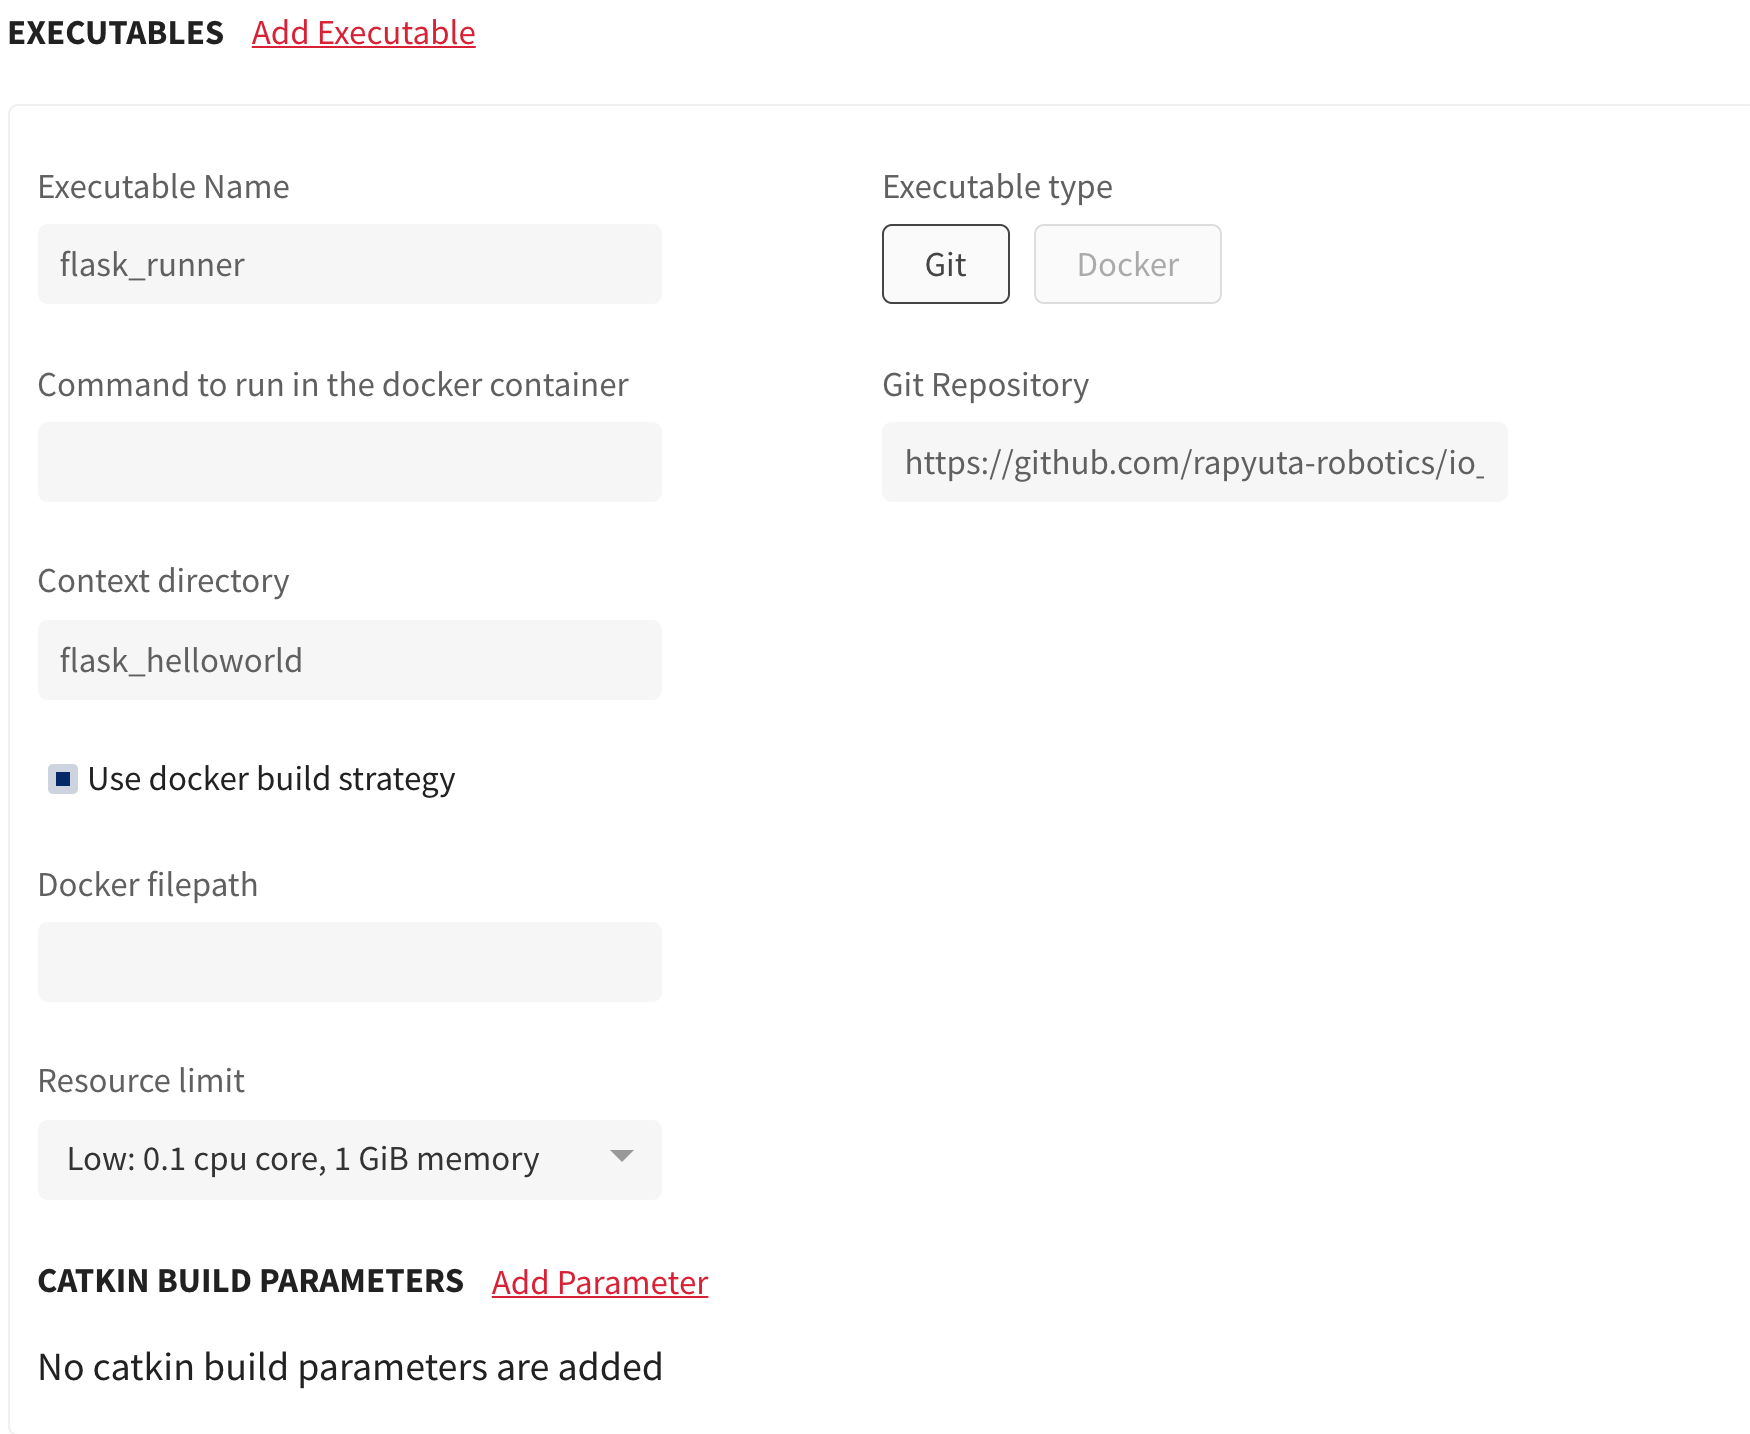
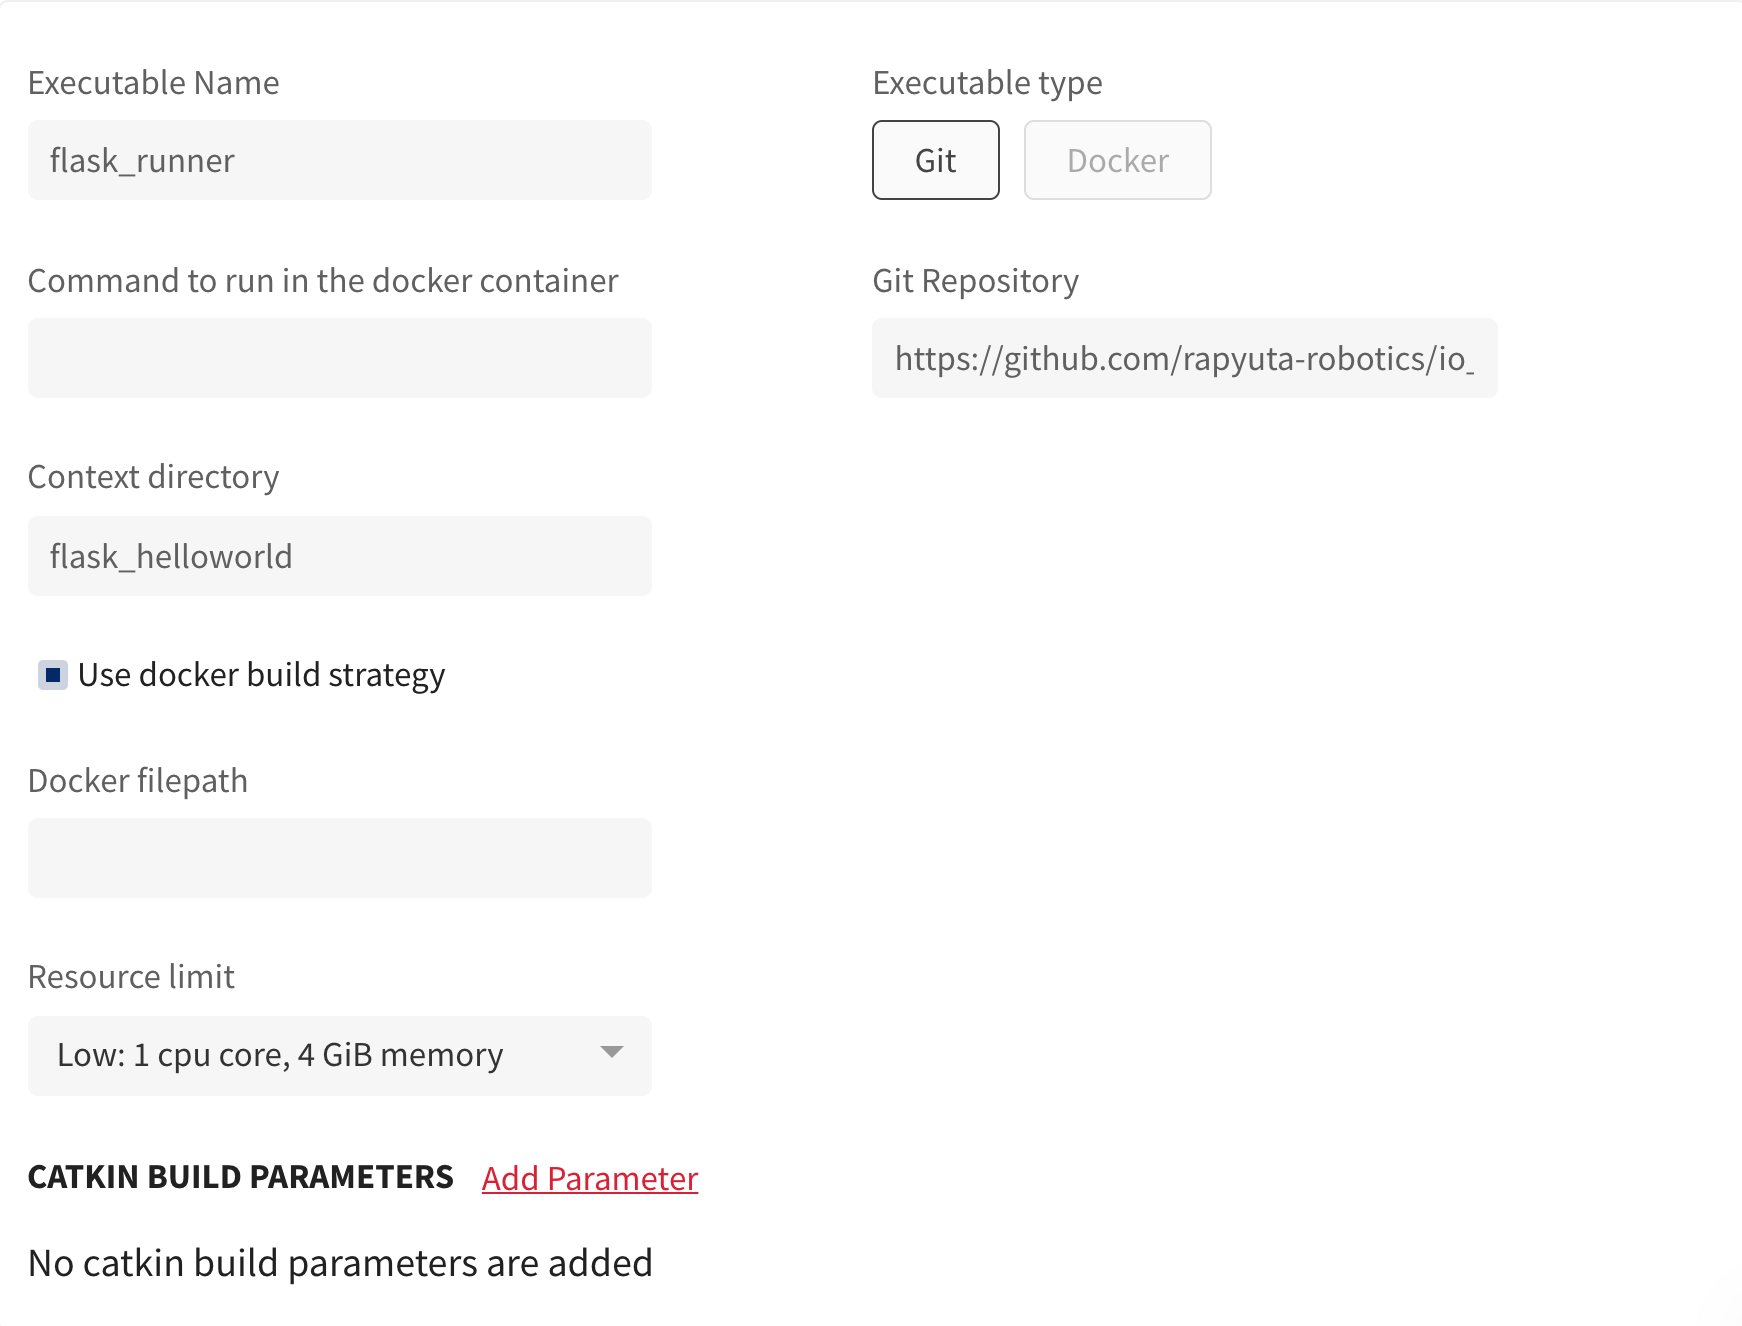
Update image with correct resource specifics, title, git repository URL

diff --git a/hugo/content/dev-tutorials/hello-world.md b/hugo/content/dev-tutorials/hello-world.md
@@ -1,5 +1,5 @@
 ---
-title: "Hello World Application"
+title: "Hello World Web Application"
 description:
 type: dev-tutorials
 date: 2019-04-26T16:27:32+05:30
@@ -7,16 +7,18 @@ pre: "g. "
 weight: 445
 ---
 An executable of a package can be a dockerfile. In that case, rapyuta.io
-applies dockerfile build strategy while deploying the package. The tutorial
-illustrates this strategy, where a dockerfile is built into a docker image.
+applies [dockerfile build strategy](/core-concepts/builds/#dockerfile-strategy)
+while deploying the package. The tutorial illustrates this strategy, where
+a dockerfile is built into a docker image.
 
 ## Learning objectives
-The tutorial will show you how to include a dockerfile in an executable
-of a rapyuta.io package.
+The tutorial will show you how to use a dockerfile to build an executable
+of a package.
 
 ## Prerequisites
-1. Ensure that the Google Chrome browser is installed on a computer.
-2. You should be familiar with the core concepts of rapyuta.io
+1. Ensure that the [Google Chrome browser](https://www.google.com/chrome/)
+   is installed on a computer.
+2. You should be familiar with the [core concepts](/core-concepts/) of rapyuta.io
 
 ## Difficulty
 Beginner
@@ -33,8 +35,8 @@ follow the below instructions in sequence:
 3. You should provide information about the package such as the name of the package, its version, whether its a singleton or bindable package and a short description.
    1. In the **Package Name** box, type in a name for the package like `simple-hello-world`
    2. In the **Package Version** box, type in the version of the package. By default, the version is set to *1.0.0*
-   3. Ensure **Is singleton package** is *not selected*.
-   4. Make sure **Is bindable package** is *selected*.
+   3. Ensure **Is a singleton package** is *not selected*.
+   4. Make sure **Is a bindable package** is *selected*.
    5. Describe the package in a sentence or two like `Demo package for dockerfile build strategy`.
 4. Click **NEXT**.
 5. In the **Component Name** box, enter a name for the component say `Flask_Application`.
@@ -49,8 +51,8 @@ follow the below instructions in sequence:
 The name of an executable must consist of alphabets [A-Z, a-z], digits [0-9], hyphen - and an underscore _ character. It must not begin with a digit.
 {{% /notice %}}
 10. Select **Git** for **Executable Type**.
-11. In the **Git Repository** box, enter the git repository's URL address: `https://github.com/rapyuta-robotics/io_tutorials#feature/add_dockerfile_flask_tutorial`
-12. In the **Context directory** box, enter the name of the parent directory that contains the dockerfile. In this example, the directory is `flask_helloworld`.
+11. In the **Git Repository** box, enter the git repository's URL address: `https://github.com/rapyuta-robotics/io_tutorials`
+12. In the **Context directory** box, enter the name of the parent directory that contains the dockerfile. In this example, it is `flask_helloworld`.
 13. Select **Use docker build strategy**.
 ![Executable details](/images/tutorials/hello-world/exec-details.png?classes=border,shadow&width=50pc)
 14. You must expose a network endpoint for viewing the output of the tutorial:
